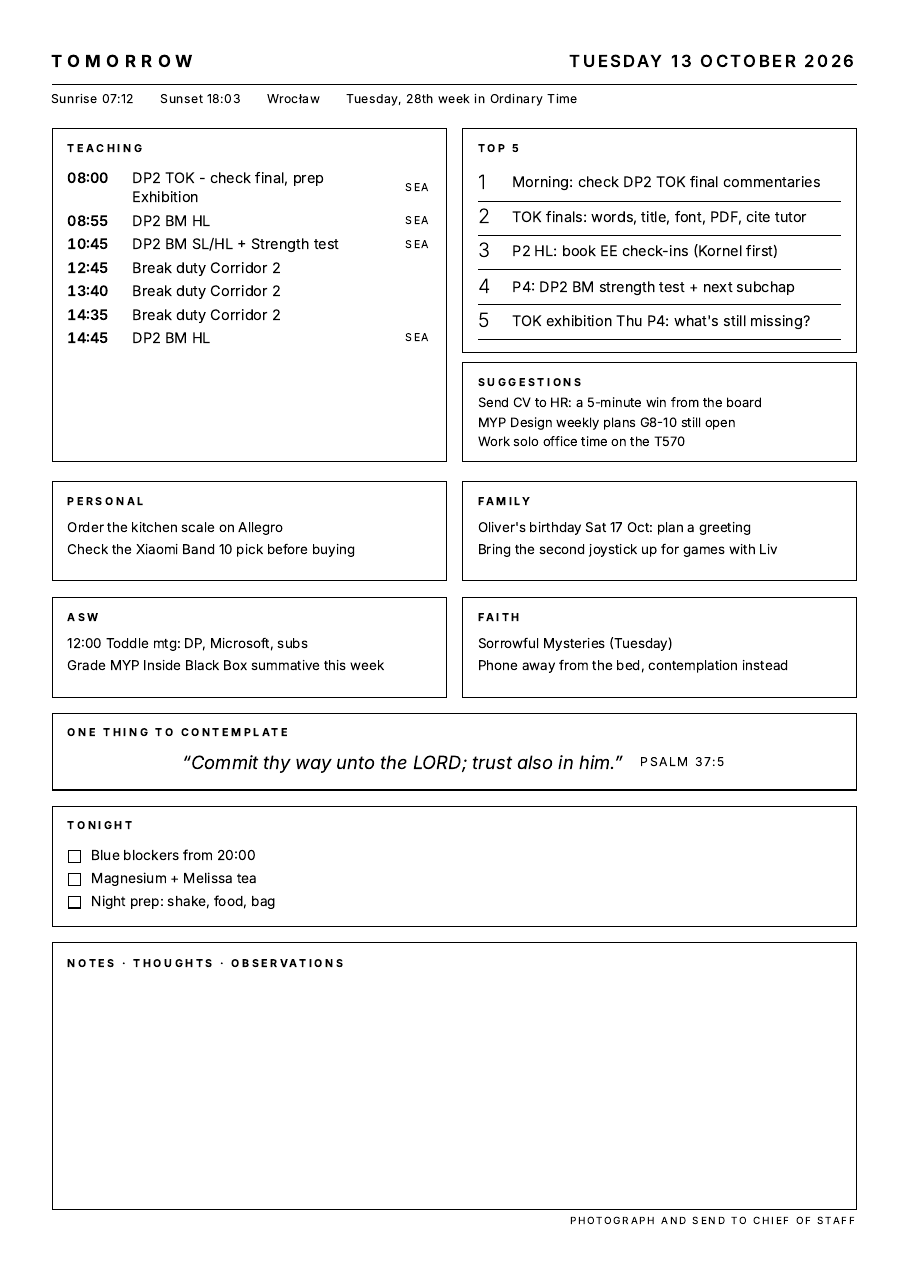
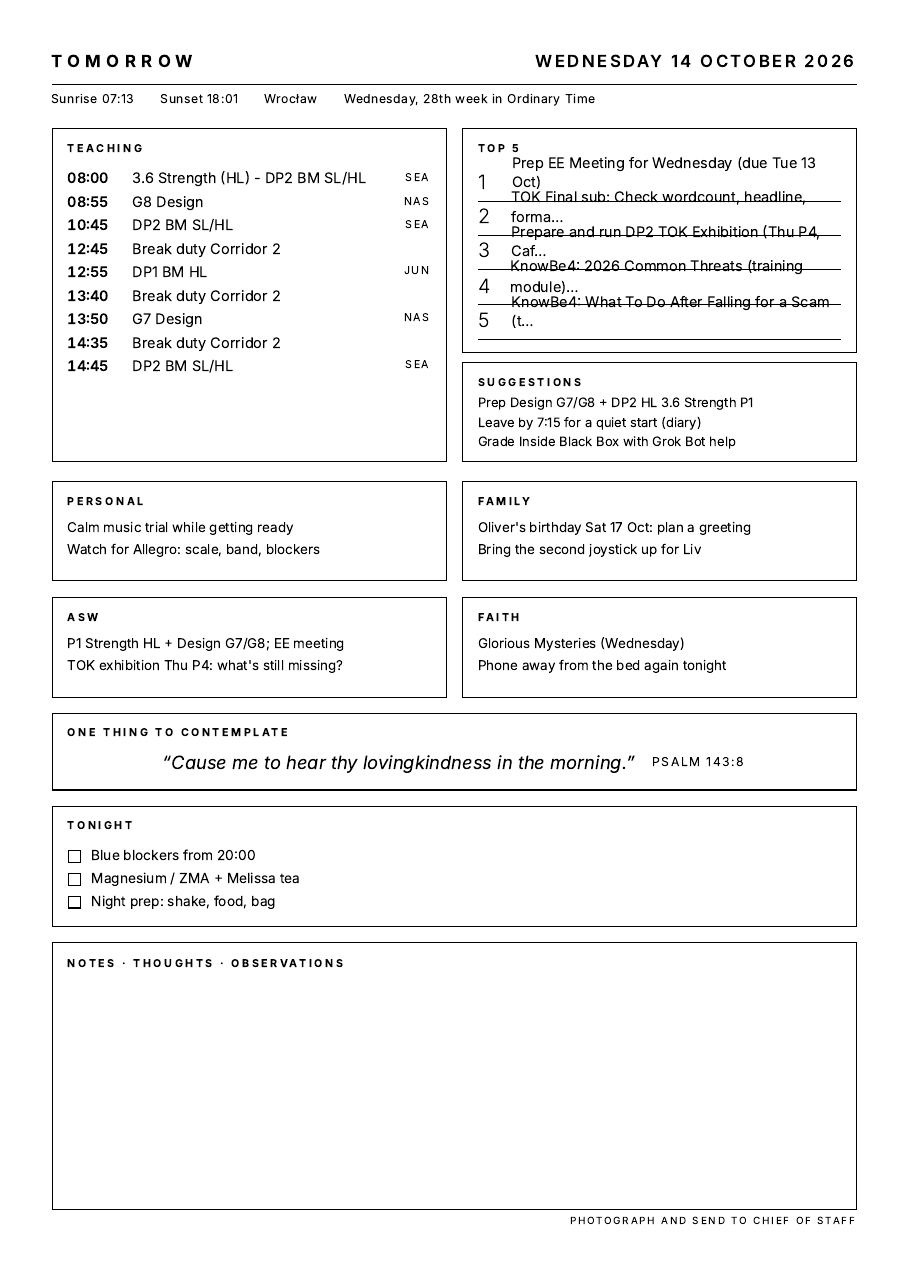
sheet 2026-10-14

diff --git a/zdkugrBDOn5zykDeEViIFfc46FUPhhtz/index.html b/zdkugrBDOn5zykDeEViIFfc46FUPhhtz/index.html
@@ -8,4 +8,4 @@
 <link rel="manifest" href="manifest.json"><link rel="apple-touch-icon" href="icon.png">
 <title>A4 Sheet</title>
 <style>html,body{margin:0;background:#000}img{display:block;width:100%;height:auto}</style>
-</head><body><img src="sheet.png?v=2026-10-13" alt="A4 sheet 2026-10-13"></body></html>
+</head><body><img src="sheet.png?v=2026-10-14" alt="A4 sheet 2026-10-14"></body></html>
